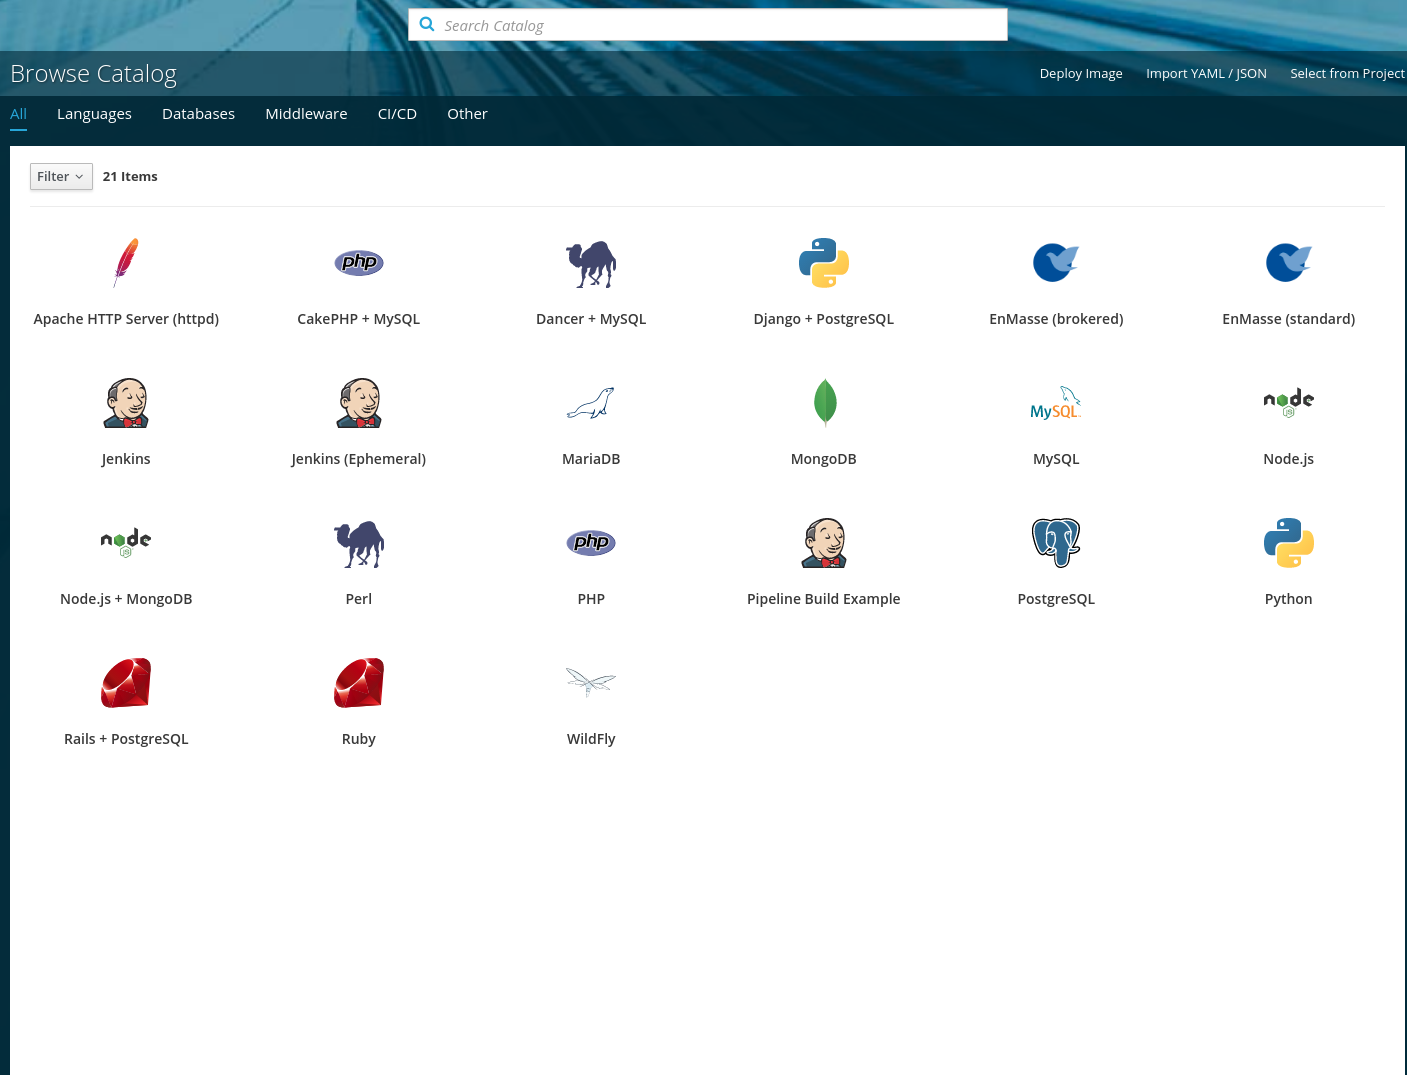
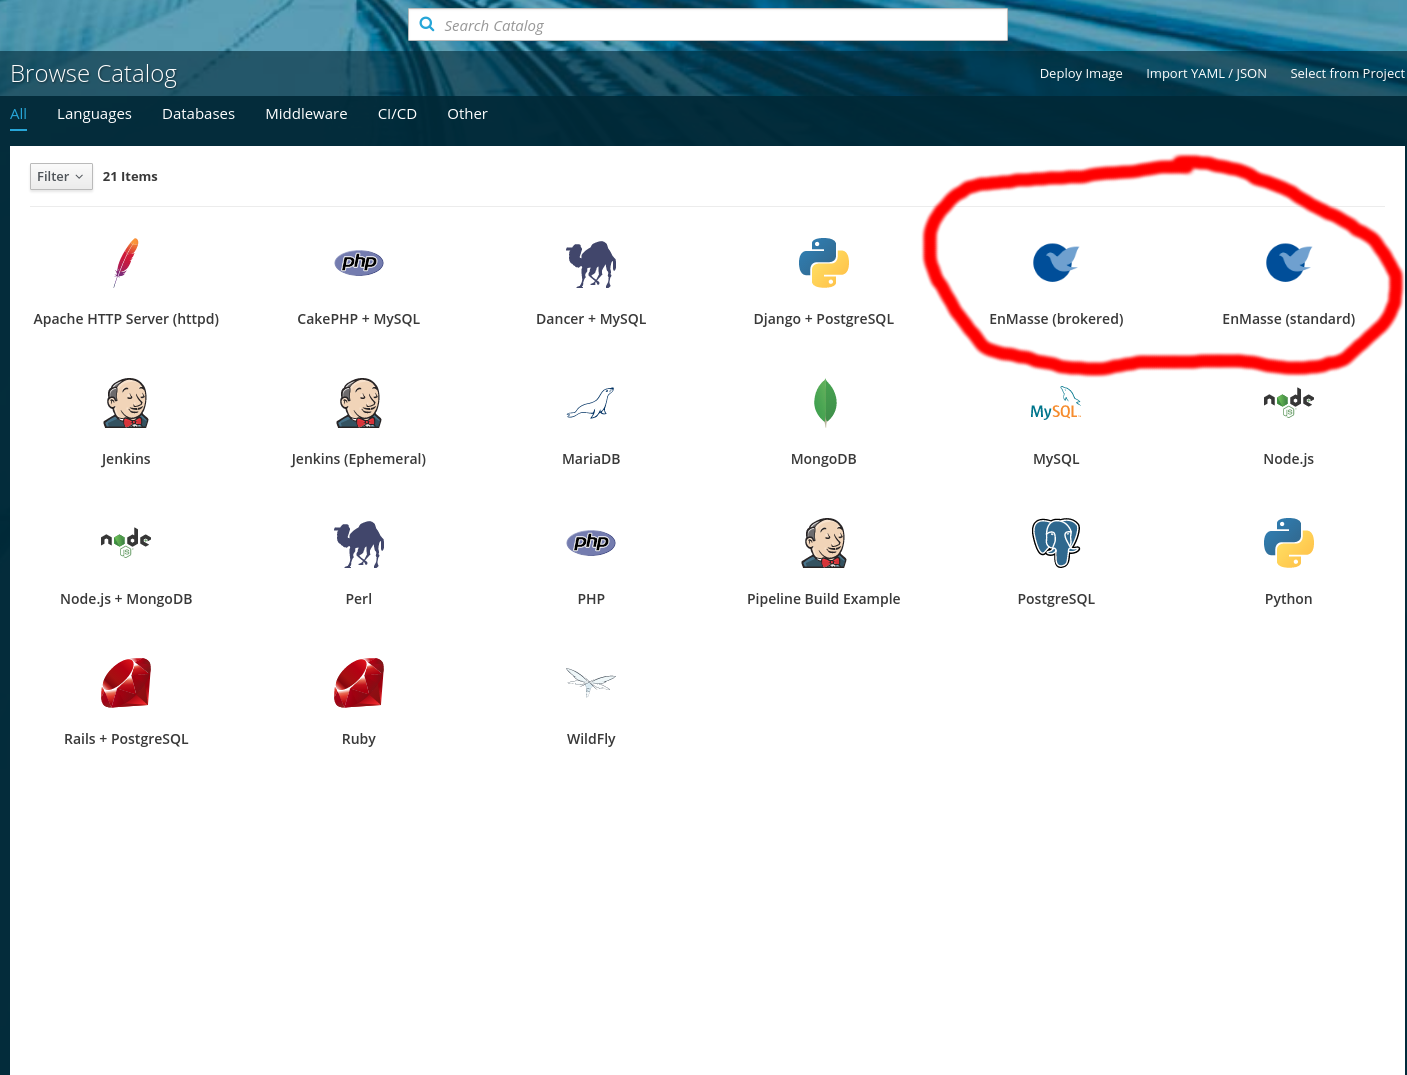
Add images to tutorial

Changed region(s): [[0.6418, 0.1228, 1.0, 0.307], [0.6724, 0.2763, 0.978, 0.3684]]

diff --git a/service-catalog-tutorial.md b/service-catalog-tutorial.md
@@ -10,12 +10,20 @@ In the OpenShift Service Catalog overview, select either of "EnMasse (standard)"
 
 ![Catalog](images/catalog.png)
 
-Select among the available plans. If you have an OpenShift project on this cluster
-already, select it in the "Add to Project" field. If not, select the "Create Project" in the
-drop-down box.
+Select among the available plans. If you have an OpenShift project on this cluster already, select it in the "Add to Project" field. If not, select the "Create Project" in the drop-down box.
 
 Use the same value for the "name" field. The address space will be provisioned and may take a few
 minutes. In the meantime, you can go to the next step of deploying the example application.
+
+![Provision](images/provision2.png)
+
+Skip binding at this point, we will perform the bind later.
+
+![Provision](images/provision3.png)
+
+If you go to your project, you should see the service provisioning in progress.
+
+![MyApp](images/myapp1.png)
 
 ## Deploying example application
 
@@ -43,28 +51,35 @@ the next step.
 
 ## Bind to app
 
-Go to your project where the app is deployed. You should see your messaging service to be
-provisioned and ready (if not, wait a little).
+Once messaging has been provisioned, it is time to create a binding.
 
-Create a binding. Select 'consoleAccess' and 'consoleAdmin' so that you can use the same credentials
+Select 'consoleAccess' and 'consoleAdmin' so that you can use the same credentials
 to create the addresses in the messaging console. Once the binding is created, you will see new
 secret created in your project.
 
+![Binding1](images/binding1.png)
+
 ### Create addresses
 
-Click on the secret and `reveal` to find the URL to the messaging console and credentials. Go to the
-messaging console and enter the credentials you've been given. Click on the "Addresses" menu item
-and create an address named `myqueue` of type `queue`.
+In project overview page, click on the secret and `reveal` to find the URL to the messaging console and credentials.
+
+![Secret1](images/secret1.png)
+
+Go to the messaging console and enter the credentials you've been given. Click on the "Addresses" menu item and create an address named `myqueue` of type `queue`.
+
+![Console1](images/console1.png)
 
 ### Add credentials to app
-Once the queue has been created, go back to the OpenShift console. Go to the secret that was created
-and click "Add to application". This will allow you modify your application deployment to mount the
-secret so that the example application can use it. Select the option to mount it and enter
-`/etc/app-credentials` as the mount point.
+
+Once the queue has been created, go back to the OpenShift console. Go to the secret that was created and click "Add to application". This will allow you modify your application deployment to mount the secret so that the example application can use it. Select the option to mount it and enter `/etc/app-credentials` as the mount point.
+
+![Secret2](images/secret2.png)
 
 Once the secret has been added to the deployment, a new version of your app will be deployed, and
 the clients should start to send and receive messages. You can confirm that it is working by looking
 at the logs for the example application pod.
+
+![App1](images/app1.png)
 
 ## Summary
 
